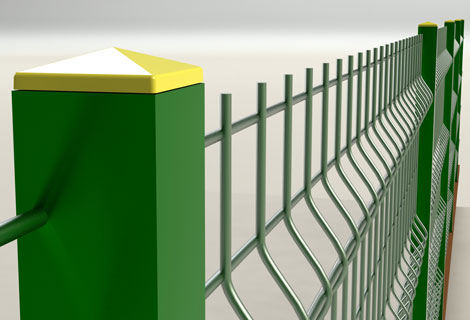
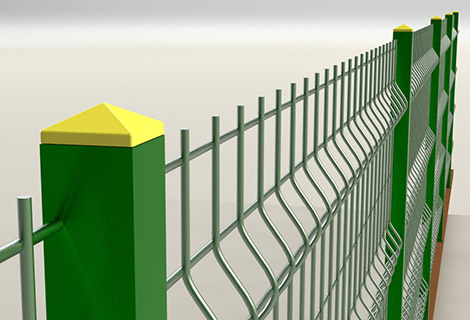
Added new pipe and fence images for inner pyramidal cap.

diff --git a/zaglushka-vnutrennyaya-domik.html b/zaglushka-vnutrennyaya-domik.html
@@ -180,7 +180,7 @@
 							<div class="col-md-6 col-xs-12">
 								<hr />
 								<h4 class="text-center">Внешний вид на трубе</h4>
-								<img src="img/60x60_inner_pyramid_pipe.jpg" alt="Вид внутренней заглушки-домик 60х60 на труб" class="img-responsive center-block" />
+								<img src="img/60x60_inner_pyramid2_pipe.jpg" alt="Вид внутренней заглушки-домик 60х60 на труб" class="img-responsive center-block" />
 							</div>
 							<div class="col-md-6 col-xs-12">
 								<hr />
